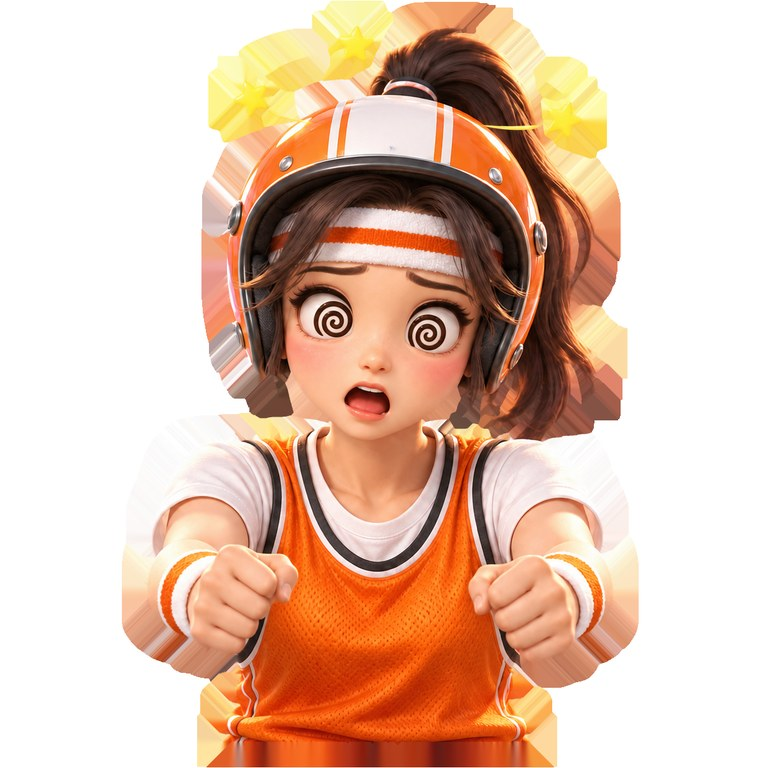
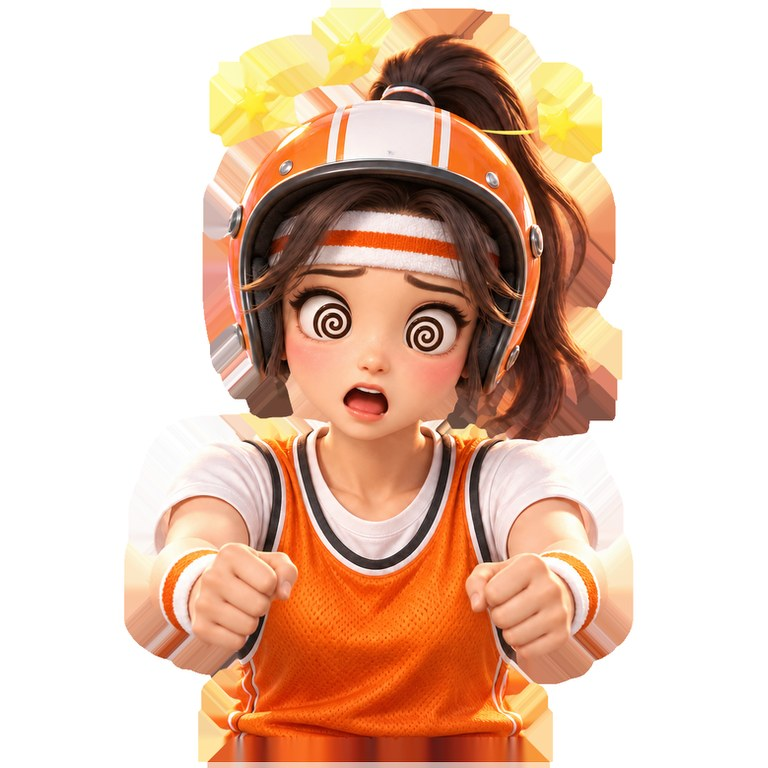
슈퍼스타 카트: 3D 캐릭터 맞았을 때(어지러운 얼굴)·우승 얼굴 10명, 관중석 실사 사진(낮·K-POP 응원봉), 네온 도시 빌딩 벽 사진 — 표정은 옷 특징점으로 앞모습에 맞춰 붙임

diff --git a/public/kart/char3d.js b/public/kart/char3d.js
@@ -1,2 +1,2 @@
 // tools/kart-3d.py가 만든 목록 — 손으로 고치지 말 것. f/b = 앞·뒤 그림 속 캐릭터 영역 [x0,y0,x1,y1]
-export const CHAR3D = {"c04": {"f": [0.1594, 0.0394, 0.8406, 0.9606], "b": [0.1722, 0.0394, 0.8278, 0.9606]}, "c01": {"f": [0.1948, 0.0402, 0.8052, 0.9598], "b": [0.2042, 0.0402, 0.7948, 0.9598], "s": [0.1123, 0.0325, 0.8869, 0.9675]}, "c02": {"f": [0.193, 0.0398, 0.807, 0.9602], "b": [0.204, 0.04, 0.796, 0.96], "s": [0.0317, 0.0556, 0.9651, 0.9444], "h": [0.1903, 0.0324, 0.804, 0.9676]}, "c03": {"f": [0.2013, 0.0364, 0.7987, 0.9636], "b": [0.2293, 0.0368, 0.7707, 0.9632]}, "c05": {"f": [0.1548, 0.0389, 0.8442, 0.9611], "b": [0.1585, 0.0391, 0.8405, 0.9609]}, "c06": {"f": [0.167, 0.0382, 0.833, 0.9618], "b": [0.2019, 0.0383, 0.7971, 0.9617]}, "c07": {"f": [0.2237, 0.0393, 0.7763, 0.9607], "b": [0.2269, 0.0393, 0.7731, 0.9607]}, "c08": {"f": [0.1437, 0.0402, 0.8563, 0.9598], "b": [0.1554, 0.0404, 0.8446, 0.9596]}, "c09": {"f": [0.142, 0.0394, 0.857, 0.9606], "b": [0.1446, 0.0396, 0.8545, 0.9604]}, "c10": {"f": [0.1782, 0.0412, 0.8208, 0.9588], "b": [0.1988, 0.0412, 0.8002, 0.9588]}};
+export const CHAR3D = {"c04": {"f": [0.1594, 0.0394, 0.8406, 0.9606], "b": [0.1722, 0.0394, 0.8278, 0.9606], "h": [0.1594, 0.0394, 0.8406, 0.9606], "w": [0.1594, 0.0394, 0.8406, 0.9606]}, "c01": {"f": [0.1948, 0.0402, 0.8052, 0.9598], "b": [0.2042, 0.0402, 0.7948, 0.9598], "s": [0.1123, 0.0325, 0.8869, 0.9675], "h": [0.1948, 0.0402, 0.8052, 0.9598], "w": [0.1948, 0.0402, 0.8052, 0.9598]}, "c02": {"f": [0.193, 0.0398, 0.807, 0.9602], "b": [0.204, 0.04, 0.796, 0.96], "s": [0.0317, 0.0556, 0.9651, 0.9444], "h": [0.193, 0.0398, 0.807, 0.9602], "w": [0.193, 0.0398, 0.807, 0.9602]}, "c03": {"f": [0.2013, 0.0364, 0.7987, 0.9636], "b": [0.2293, 0.0368, 0.7707, 0.9632], "h": [0.2013, 0.0364, 0.7987, 0.9636], "w": [0.2013, 0.0364, 0.7987, 0.9636]}, "c05": {"f": [0.1548, 0.0389, 0.8442, 0.9611], "b": [0.1585, 0.0391, 0.8405, 0.9609], "h": [0.1548, 0.0389, 0.8442, 0.9611], "w": [0.1548, 0.0389, 0.8442, 0.9611]}, "c06": {"f": [0.167, 0.0382, 0.833, 0.9618], "b": [0.2019, 0.0383, 0.7971, 0.9617], "h": [0.167, 0.0382, 0.833, 0.9618], "w": [0.167, 0.0382, 0.833, 0.9618]}, "c07": {"f": [0.2237, 0.0393, 0.7763, 0.9607], "b": [0.2269, 0.0393, 0.7731, 0.9607], "h": [0.2237, 0.0393, 0.7763, 0.9607], "w": [0.2237, 0.0393, 0.7763, 0.9607]}, "c08": {"f": [0.1437, 0.0402, 0.8563, 0.9598], "b": [0.1554, 0.0404, 0.8446, 0.9596], "h": [0.1437, 0.0402, 0.8563, 0.9598], "w": [0.1437, 0.0402, 0.8563, 0.9598]}, "c09": {"f": [0.142, 0.0394, 0.857, 0.9606], "b": [0.1446, 0.0396, 0.8545, 0.9604], "h": [0.142, 0.0394, 0.857, 0.9606], "w": [0.142, 0.0394, 0.857, 0.9606]}, "c10": {"f": [0.1782, 0.0412, 0.8208, 0.9588], "b": [0.1988, 0.0412, 0.8002, 0.9588], "h": [0.1782, 0.0412, 0.8208, 0.9588], "w": [0.1782, 0.0412, 0.8208, 0.9588]}};

diff --git a/public/kart/scenery.js b/public/kart/scenery.js
@@ -488,11 +488,11 @@ varying vec3 vWP2; varying vec3 vWN2; varying float vSeed;`)
 uniform sampler2D tFac; varying vec3 vWP2; varying vec3 vWN2; varying float vSeed;`)
         .replace('#include <map_fragment>', `
           vec3 n2 = normalize(vWN2); float roof = step(0.6, abs(n2.y));
-          vec2 uv = vec2((abs(n2.x) > abs(n2.z) ? vWP2.z : vWP2.x) / 26.0 + vSeed * 3.7, vWP2.y / 26.0);
+          vec2 uv = vec2((abs(n2.x) > abs(n2.z) ? vWP2.z : vWP2.x) / 52.0 + vSeed * 3.7, vWP2.y / 52.0); // 사진 한 장 = 52m(창 하나 약 3.5m)
           vec3 fc = texture2D(tFac, uv).rgb;
           float lum = dot(fc, vec3(0.3, 0.59, 0.11));
-          diffuseColor.rgb = mix(fc * 0.55 * diffuseColor.rgb * 1.6, vec3(0.05, 0.06, 0.09), roof);
-          vec3 winGlow = fc * smoothstep(0.3, 0.75, lum) * (1.0 - roof) * 1.6;`)
+          diffuseColor.rgb = mix(fc * diffuseColor.rgb * 1.5 + diffuseColor.rgb * 0.06, vec3(0.05, 0.06, 0.09), roof);
+          vec3 winGlow = fc * smoothstep(0.22, 0.6, lum) * (1.0 - roof) * 2.4;`)
         .replace('#include <emissivemap_fragment>', `#include <emissivemap_fragment>
  totalEmissiveRadiance += winGlow;`);
       return;

diff --git a/public/kart/index.html b/public/kart/index.html
@@ -202,6 +202,6 @@
 <div id="toast"></div>
 
 <script type="importmap">{"imports":{"three":"/fps/three.module.js"}}</script>
-<script type="module" src="/kart/main.js?v=31"></script>
+<script type="module" src="/kart/main.js?v=32"></script>
 </body>
 </html>

diff --git a/public/kart/env.js b/public/kart/env.js
@@ -1,2 +1,2 @@
 // tools/kart-env.py가 만든 목록 — 손으로 고치지 말 것
-export const ENV_ART = ["bg-beach", "bg-blossom", "bg-neon"];
+export const ENV_ART = ["bg-beach", "bg-blossom", "bg-neon", "crowd-day", "crowd-night", "facade-night"];

diff --git a/tools/kart-3d.py b/tools/kart-3d.py
@@ -79,6 +79,31 @@ def same_char(a, b):
         hsv = cv2.cvtColor(np.ascontiguousarray(x[..., :3]), cv2.COLOR_RGB2HSV); hh = cv2.calcHist([hsv], [0, 1], m, [24, 16], [0, 180, 0, 256]); cv2.normalize(hh, hh); return hh
     return float(cv2.compareHist(h(a), h(b), cv2.HISTCMP_CORREL))
 
+def align_to_front(cid, img):
+    # 표정 그림을 앞모습 그림(3D에 입힌 {cid}-f.jpg)에 겹치게 맞춘다: 옷·몸통 특징점으로 닮음 변환(이동·회전·크기)
+    # → 같은 자리 표(rect)를 그대로 써서 3D 얼굴 자리에 정확히 올라간다. 못 맞추면 None
+    fr = cv2.cvtColor(np.asarray(Image.open(os.path.join(OUT, f'{cid}-f.jpg')).convert('RGB')), cv2.COLOR_RGB2BGR)  # 한글 경로라 cv2.imread 못 씀
+    S = fr.shape[0]
+    c = cutout(img); c = c.crop(bbox(c))
+    sz = max(c.size) + 80; can = Image.new('RGBA', (sz, sz), (255, 255, 255, 0)); can.paste(c, ((sz - c.width) // 2, (sz - c.height) // 2), c)
+    src = pad_colors(can).resize((S, S), Image.LANCZOS)
+    mv = cv2.cvtColor(np.asarray(src), cv2.COLOR_RGB2BGR)
+    orb = cv2.ORB_create(4000)
+    g1 = cv2.cvtColor(mv, cv2.COLOR_BGR2GRAY); g2 = cv2.cvtColor(fr, cv2.COLOR_BGR2GRAY)
+    # 얼굴(위쪽 절반)은 바뀌었으니 몸통(아래 55%)에서만 특징점
+    m1 = np.zeros_like(g1); m1[int(S * 0.45):] = 255; m2 = np.zeros_like(g2); m2[int(S * 0.45):] = 255
+    k1, d1 = orb.detectAndCompute(g1, m1); k2, d2 = orb.detectAndCompute(g2, m2)
+    if d1 is None or d2 is None: return None
+    ms = sorted(cv2.BFMatcher(cv2.NORM_HAMMING, crossCheck=True).match(d1, d2), key=lambda m: m.distance)[:400]
+    if len(ms) < 20: return None
+    A = np.float32([k1[m.queryIdx].pt for m in ms]); B = np.float32([k2[m.trainIdx].pt for m in ms])
+    M, inl = cv2.estimateAffinePartial2D(A, B, method=cv2.RANSAC, ransacReprojThreshold=4)
+    if M is None or inl.sum() < 15: return None
+    sc = float(np.hypot(M[0, 0], M[1, 0]))
+    if not 0.7 < sc < 1.4: return None
+    out = cv2.warpAffine(mv, M, (S, S), flags=cv2.INTER_LANCZOS4, borderMode=cv2.BORDER_REPLICATE)
+    return Image.fromarray(cv2.cvtColor(out, cv2.COLOR_BGR2RGB)), int(inl.sum()), round(sc, 3)
+
 def extras(cid, xdir):
     # 옆모습(s)·어지러운 얼굴(h)·우승 얼굴(w): 코덱스가 앞모습을 참고해 그린 것. 다른 그림이 섞였으면 건너뛴다
     res = {}; front = Image.open(os.path.join(WORK, f'{cid}-front.png'))
@@ -88,6 +113,11 @@ def extras(cid, xdir):
         c = cutout(Image.open(p)); c = c.crop(bbox(c))
         sim = same_char(front, c)
         if sim < 0.45: print(cid, nm, '다른 그림 같아서 건너뜀', round(sim, 2)); continue
+        if key in ('h', 'w'):
+            r = align_to_front(cid, Image.open(p))
+            if not r: print(cid, nm, '앞모습에 못 맞춤 — 건너뜀'); continue
+            r[0].save(os.path.join(OUT, f'{cid}-{key}.jpg'), quality=88)
+            res[key] = man[cid]['front']; print(cid, nm, 'OK 맞춤', r[1], r[2]); continue
         s = max(c.size) + 80; can = Image.new('RGBA', (s, s), (255, 255, 255, 0)); can.paste(c, ((s - c.width) // 2, (s - c.height) // 2), c)
         res[key] = rect(can); pad_colors(can).resize((768, 768), Image.LANCZOS).save(os.path.join(OUT, f'{cid}-{key}.jpg'), quality=88)
         print(cid, nm, 'OK', round(sim, 2))
